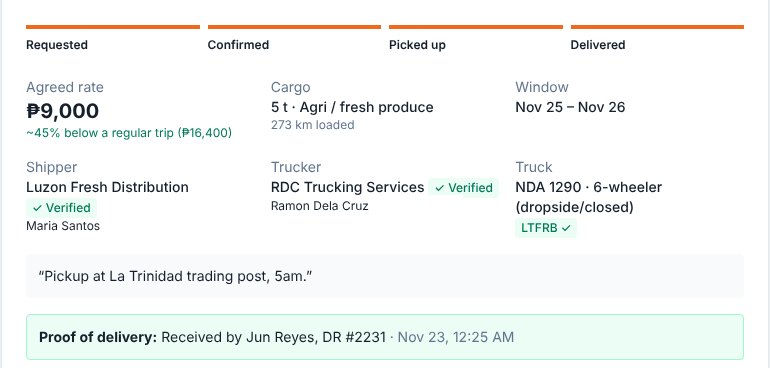
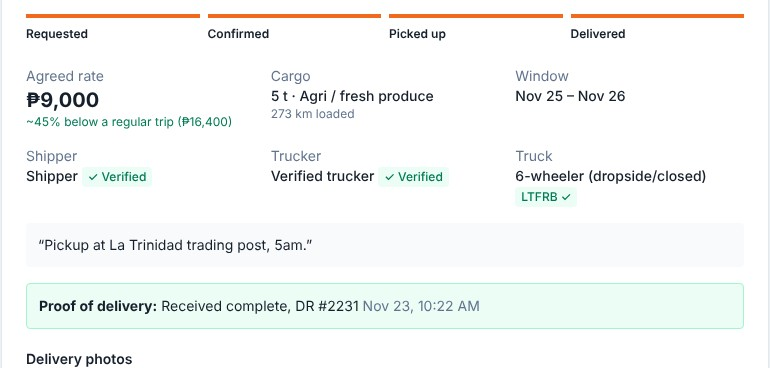
Hide trucker and shipper names on the public landing page
The open-trips window now shows each trip's truck class, route and date
instead of the trucker's company name and initials, and no longer loads the
trucker at all. The page's mockups no longer name demo companies, people or
plates, and the four app screenshots were retaken with names, contacts and
plates removed (the load shown is a seeded one, not an e2e test load).

The landing e2e test now fails if a demo name or a plate number appears in
the page text or image alt text.

Claude-Session: https://claude.ai/code/session_017zwT79nkdVesj88aJVMK8h

diff --git a/src/lib/landing.ts b/src/lib/landing.ts
@@ -12,9 +12,12 @@ import { fmtDate } from "./format";
   moments). Signed-in users never see it: the route redirects them to /dashboard first.
 */
 
+/**
+ * A return trip as the public page shows it. Deliberately no company name, person or plate: the page is
+ * open to anyone, so a trip is shown by its truck class, route and date only.
+ */
 export interface LandingTrip {
-  company: string;
-  initials: string;
+  badge: string;
   origin: string;
   dest: string;
   truckLabel: string;
@@ -37,14 +40,32 @@ const addDays = (d: Date, n: number) => new Date(d.getTime() + n * 86_400_000);
 const arrow = `<svg class="m-arrow" viewBox="0 0 12 12" aria-hidden="true"><path class="m-arrow__stem" d="M1 6h8"/><path class="m-arrow__head" d="M4.5 2.5 8 6l-3.5 3.5"/></svg>`;
 const tick = `<svg viewBox="0 0 16 16"><path d="m4.5 8.2 2.3 2.3 4.7-5"/></svg>`;
 
+/** Short truck-class badge for the trip rows (in place of a company's initials). */
+export const TRUCK_BADGE: Record<string, string> = {
+  CLOSED_VAN_4W: "4W",
+  SIX_WHEELER: "6W",
+  WING_VAN_6W: "6W",
+  WING_VAN_10W: "10W",
+  FLATBED_10W: "10W",
+  REEFER: "RF",
+  TRAILER: "TR",
+};
+
+const seed = (origin: string, dest: string, type: keyof typeof TRUCK_TYPES): Omit<LandingTrip, "from"> => ({
+  badge: TRUCK_BADGE[type],
+  origin,
+  dest,
+  truckLabel: TRUCK_TYPES[type].label,
+});
+
 /** Return trips shown in the hero window when the database has fewer than six open ones (the demo seed's lanes). */
 const SEED_TRIPS: Omit<LandingTrip, "from">[] = [
-  { company: "RDC Trucking Services", initials: "RD", origin: "Batangas City", dest: "Valenzuela", truckLabel: TRUCK_TYPES.WING_VAN_10W.label },
-  { company: "RDC Trucking Services", initials: "RD", origin: "Baguio", dest: "Valenzuela", truckLabel: TRUCK_TYPES.SIX_WHEELER.label },
-  { company: "Ilocos Freight Lines", initials: "IF", origin: "Subic / Olongapo", dest: "Laoag", truckLabel: TRUCK_TYPES.WING_VAN_10W.label },
-  { company: "Bisaya Haulers", initials: "BH", origin: "Toledo", dest: "Mandaue", truckLabel: TRUCK_TYPES.FLATBED_10W.label },
-  { company: "Mindanao Cold Express", initials: "MC", origin: "Tagum", dest: "Cagayan de Oro", truckLabel: TRUCK_TYPES.REEFER.label },
-  { company: "Ilocos Freight Lines", initials: "IF", origin: "Manila", dest: "Laoag", truckLabel: TRUCK_TYPES.TRAILER.label },
+  seed("Batangas City", "Valenzuela", "WING_VAN_10W"),
+  seed("Baguio", "Valenzuela", "SIX_WHEELER"),
+  seed("Subic / Olongapo", "Laoag", "WING_VAN_10W"),
+  seed("Toledo", "Mandaue", "FLATBED_10W"),
+  seed("Tagum", "Cagayan de Oro", "REEFER"),
+  seed("Manila", "Laoag", "TRAILER"),
 ];
 
 
@@ -56,7 +77,7 @@ function heroRows(data: LandingData) {
   return [...live, ...fill]
     .map(
       (t, i) => `
-            <li class="ui-win__row" data-row><span class="ui-avatar" data-tone="${(i % 5) + 1}">${esc(t.initials)}</span><span class="ui-win__who">${esc(t.company)}</span><span class="ui-win__sub">${esc(t.origin)} → ${esc(t.dest)}</span><span class="ui-win__st${i === 1 ? " is-you" : ""}" data-st>${i === 1 ? "Offer sent" : "Open"}</span><span class="ui-win__age">${esc(fmtDate(t.from))}</span></li>`,
+            <li class="ui-win__row" data-row><span class="ui-avatar" data-tone="${(i % 5) + 1}">${esc(t.badge)}</span><span class="ui-win__who">${esc(t.truckLabel)}</span><span class="ui-win__sub">${esc(t.origin)} → ${esc(t.dest)}</span><span class="ui-win__st${i === 1 ? " is-you" : ""}" data-st>${i === 1 ? "Offer sent" : "Open"}</span><span class="ui-win__age">${esc(fmtDate(t.from))}</span></li>`,
     )
     .join("");
 }
@@ -245,7 +266,7 @@ export function renderLanding(data: LandingData): string {
         <div class="nav__menu">
           <div class="wrap grid">
             <a class="menu-card span-4" href="#matching">
-              <div class="panel"><img class="frame__img" src="/assets/screens/load-matches.jpg" width="820" height="401" alt="A shipper's load from Tarlac City to Laoag with two trucks heading that way" loading="lazy" data-source="client" data-subject="the shipper's load page"></div>
+              <div class="panel"><img class="frame__img" src="/assets/screens/load-matches.jpg" width="820" height="401" alt="A shipper's load from Lipa to Quezon City with a truck already heading that way" loading="lazy" data-source="client" data-subject="the shipper's load page"></div>
               <span class="t-card">Load matching</span>
               <span class="t-small muted">Trucks heading your way, scored 0 to 100</span>
             </a>
@@ -314,7 +335,7 @@ export function renderLanding(data: LandingData): string {
         </div>
         <div class="ly-piece ly-piece--note bk-note" aria-hidden="true" data-ly-steps="700">
           <div class="bk-note__row"><h3>Tarlac City → Laoag</h3><span class="bk-chip" data-step data-step-at="4">Requested</span></div>
-          <div class="bk-line" data-step><i>✓</i><span><b>Ilocos Freight Lines</b>, fit 90</span></div>
+          <div class="bk-line" data-step><i>✓</i><span><b>10-wheeler wing van</b>, fit 90</span></div>
           <div class="bk-line" data-step><i>✓</i><span>On the way home, <b>+9 km</b> detour</span></div>
           <div class="bk-line" data-step><i>✓</i><span>Suggested <b>₱22,000</b>, regular ₱36,700</span></div>
         </div>
@@ -336,7 +357,7 @@ export function renderLanding(data: LandingData): string {
           <div class="ui ui-panel ui-win">
             <div class="ui-win__bar">
               <span class="ui-dots" aria-hidden="true"><i></i><i></i><i></i></span>
-              <span class="ui-win__crumb">Luzon Fresh Distribution <i>/</i> <b>My loads</b></span>
+              <span class="ui-win__crumb">Shipper <i>/</i> <b>My loads</b></span>
               <span class="ui-spacer"></span>
             </div>
             <div class="ui-win__body">
@@ -375,14 +396,14 @@ export function renderLanding(data: LandingData): string {
             <h4>Trucks already heading this way (2)</h4>
             <div class="bk-match">
               <span class="bk-fit">90<small>FIT</small></span>
-              <span><b>Ilocos Freight Lines</b><span class="bk-unv">Unverified</span></span>
+              <span><b>10-wheeler wing van</b><span class="bk-unv">Unverified</span></span>
               <span class="ui-btn ui-btn--sm">Request truck</span>
               <span class="bk-match__sub">10-wheeler wing van, 14 t · empty at Subic, going home to Laoag · ${esc(tripA)}</span>
               <span class="bk-match__nums">Loaded 408 km · +9 km detour · suggested <b>₱22,000</b> (regular ≈ ₱36,700)</span>
             </div>
             <div class="bk-match">
               <span class="bk-fit bk-fit--b">80<small>FIT</small></span>
-              <span><b>Ilocos Freight Lines</b><span class="bk-unv">Unverified</span></span>
+              <span><b>10-wheeler wing van</b><span class="bk-unv">Unverified</span></span>
               <span class="ui-btn ui-btn--sm ui-btn--ghost">Request truck</span>
               <span class="bk-match__sub">Tractor head and trailer, 30 t · empty at Manila, going home to Laoag · ${esc(tripB)}</span>
               <span class="bk-match__nums">Loaded 408 km · +9 km detour · suggested <b>₱29,400</b> (regular ≈ ₱49,000)</span>
@@ -407,9 +428,9 @@ export function renderLanding(data: LandingData): string {
               <div class="stage stage--fade-b"><div class="at-rise fit" style="--fit-max:380px;--ax:max(24px, 50% - 190px);--ay:calc(100% - 180px);--ay-sm:calc(100% - 180px)" data-ui-loop>
                 <div class="ui ui-notify" data-ui="notify">
                   <ul class="ui-notify__list" data-notify-list>
-                    <li class="ui-note"><span class="ui-avatar ui-note__av" data-tone="1">MS</span><span class="ui-note__text"><span class="ui-note__title">Truck requested<time>now</time></span><span class="ui-note__body">Maria Santos wants your Baguio → Valenzuela trip</span></span><span class="ui-btn ui-btn--sm ui-note__btn">Open</span></li>
+                    <li class="ui-note"><span class="ui-avatar ui-note__av" data-tone="1">5t</span><span class="ui-note__text"><span class="ui-note__title">Truck requested<time>now</time></span><span class="ui-note__body">A shipper wants your Baguio → Valenzuela trip</span></span><span class="ui-btn ui-btn--sm ui-note__btn">Open</span></li>
                     <li class="ui-note"><span class="ui-note__ico"><svg class="ui-icon" viewBox="0 0 16 16"><path d="m3.5 8.4 2.8 2.8 6.2-6.4"/></svg></span><span class="ui-note__text"><span class="ui-note__title">Booking confirmed<time>4m</time></span><span class="ui-note__body">Phone numbers are now on the booking</span></span></li>
-                    <li class="ui-note"><span class="ui-avatar ui-note__av" data-tone="3">RD</span><span class="ui-note__text"><span class="ui-note__title">Picked up at La Trinidad<time>1h</time></span><span class="ui-note__body">5 t of vegetables, on the way to Navotas</span></span></li>
+                    <li class="ui-note"><span class="ui-avatar ui-note__av" data-tone="3">6W</span><span class="ui-note__text"><span class="ui-note__title">Picked up at La Trinidad<time>1h</time></span><span class="ui-note__body">5 t of vegetables, on the way to Navotas</span></span></li>
                   </ul>
                 </div>
               </div></div>
@@ -421,12 +442,12 @@ export function renderLanding(data: LandingData): string {
             <div class="panel">
               <div class="stage stage--fade-b"><div class="at-rise fit" style="--fit-max:340px;--ax:max(24px, 50% - 170px);--ay:40px;--ay-sm:24px">
                 <div class="ui ui-panel ui-checks" data-ui="checklist">
-                  <div class="ui-checks__head"><div class="ui-title">NDA 1290 · 6-wheeler</div><span class="ui-spacer"></span><div class="ui-meta" data-checks-count>3 of 4</div></div>
+                  <div class="ui-checks__head"><div class="ui-title">6-wheeler, 6 t</div><span class="ui-spacer"></span><div class="ui-meta" data-checks-count>3 of 4</div></div>
                   <div class="ui-checks__bar"><i data-checks-bar style="--k:0.75"></i></div>
                   <ul class="ui-checks__list">
                     <li class="ui-check is-done"><span class="ui-check__box">${tick}</span><span class="ui-check__label">Government ID</span></li>
                     <li class="ui-check is-done"><span class="ui-check__box">${tick}</span><span class="ui-check__label">Driver’s license</span></li>
-                    <li class="ui-check is-done"><span class="ui-check__box">${tick}</span><span class="ui-check__label">OR/CR for NDA 1290</span></li>
+                    <li class="ui-check is-done"><span class="ui-check__box">${tick}</span><span class="ui-check__label">OR/CR for the truck</span></li>
                     <li class="ui-check"><span class="ui-check__box">${tick}</span><span class="ui-check__label">LTFRB franchise (CPC)</span></li>
                   </ul>
                 </div>
@@ -456,7 +477,7 @@ export function renderLanding(data: LandingData): string {
           <article class="card card--row card--open span-6 m-nolift">
             <h3>Records proof of delivery</h3>
             <p>At drop-off the driver adds a photo of the signed DR or waybill and the receiver’s name. The phone camera opens directly.</p>
-            <div class="panel panel--screen"><img class="frame__img" src="/assets/screens/booking-proof.jpg" alt="A delivered booking: requested, confirmed, picked up and delivered, received by Jun Reyes with DR #2231" loading="lazy" width="770" height="368" data-source="client" data-subject="the booking page's proof of delivery"></div>
+            <div class="panel panel--screen"><img class="frame__img" src="/assets/screens/booking-proof.jpg" alt="A delivered booking: requested, confirmed, picked up and delivered, with the receiver and DR number recorded" loading="lazy" width="770" height="368" data-source="client" data-subject="the booking page's proof of delivery"></div>
           </article>
         </div>
         <div class="grid bk-counts" data-moment="counter-rolls">

diff --git a/src/app/route.ts b/src/app/route.ts
@@ -2,17 +2,9 @@ import { redirect } from "next/navigation";
 import { getCurrentUser } from "@/lib/auth";
 import { db } from "@/lib/db";
 import { TRUCK_TYPES, type TruckType } from "@/lib/constants";
-import { renderLanding } from "@/lib/landing";
+import { renderLanding, TRUCK_BADGE } from "@/lib/landing";
 
 export const dynamic = "force-dynamic";
-
-const initials = (s: string) =>
-  s
-    .split(/\s+/)
-    .filter(Boolean)
-    .slice(0, 2)
-    .map((w) => w[0]!.toUpperCase())
-    .join("");
 
 /** The public landing page. Signed-in users go straight to their dashboard. */
 export async function GET() {
@@ -21,7 +13,7 @@ export async function GET() {
   const [openTrips, openLoads, delivered] = await Promise.all([
     db.returnTrip.findMany({
       where: { status: "OPEN" },
-      include: { truck: true, trucker: true },
+      include: { truck: true },
       orderBy: { availableFrom: "asc" },
       take: 6,
     }),
@@ -30,17 +22,14 @@ export async function GET() {
   ]);
 
   const html = renderLanding({
-    trips: openTrips.map((t) => {
-      const company = t.trucker.company || t.trucker.name;
-      return {
-        company,
-        initials: initials(company),
-        origin: t.originCity,
-        dest: t.destCity,
-        truckLabel: TRUCK_TYPES[t.truck.truckType as TruckType]?.label ?? t.truck.truckType,
-        from: t.availableFrom,
-      };
-    }),
+    // The page is public: no company names, people or plates, only the truck class and the route.
+    trips: openTrips.map((t) => ({
+      badge: TRUCK_BADGE[t.truck.truckType] ?? "TR",
+      origin: t.originCity,
+      dest: t.destCity,
+      truckLabel: TRUCK_TYPES[t.truck.truckType as TruckType]?.label ?? t.truck.truckType,
+      from: t.availableFrom,
+    })),
     openLoads,
     delivered: delivered._count,
     loadedKm: delivered._sum.loadedKm ?? 0,

diff --git a/e2e/core-flows.spec.ts b/e2e/core-flows.spec.ts
@@ -14,6 +14,11 @@ test.describe.serial("core marketplace flows", () => {
     await expect(page.getByText(/Lanes across 66 hubs/)).toBeAttached();
     await expect(page.locator('a[href="/signup?role=SHIPPER"]').first()).toBeVisible();
     await expect(page.locator('a[href="/signup?role=TRUCKER"]').first()).toBeVisible();
+    // The page is public: no company or person names and no plate numbers, in text or in image alt text
+    const text = (await page.locator("body").innerText()) + (await page.locator("img").evaluateAll((imgs) => imgs.map((i) => i.getAttribute("alt")).join(" ")));
+    for (const name of ["RDC Trucking", "Ilocos Freight", "Bisaya Haulers", "Mindanao Cold", "Luzon Fresh", "Mandaue Home", "Golden Grain", "Ramon", "Maria Santos", "Jun Reyes"])
+      expect(text, `public page shows "${name}"`).not.toContain(name);
+    expect(text).not.toMatch(/\b[A-Z]{3} \d{4}\b/);
     expect(errors).toEqual([]);
   });
 
